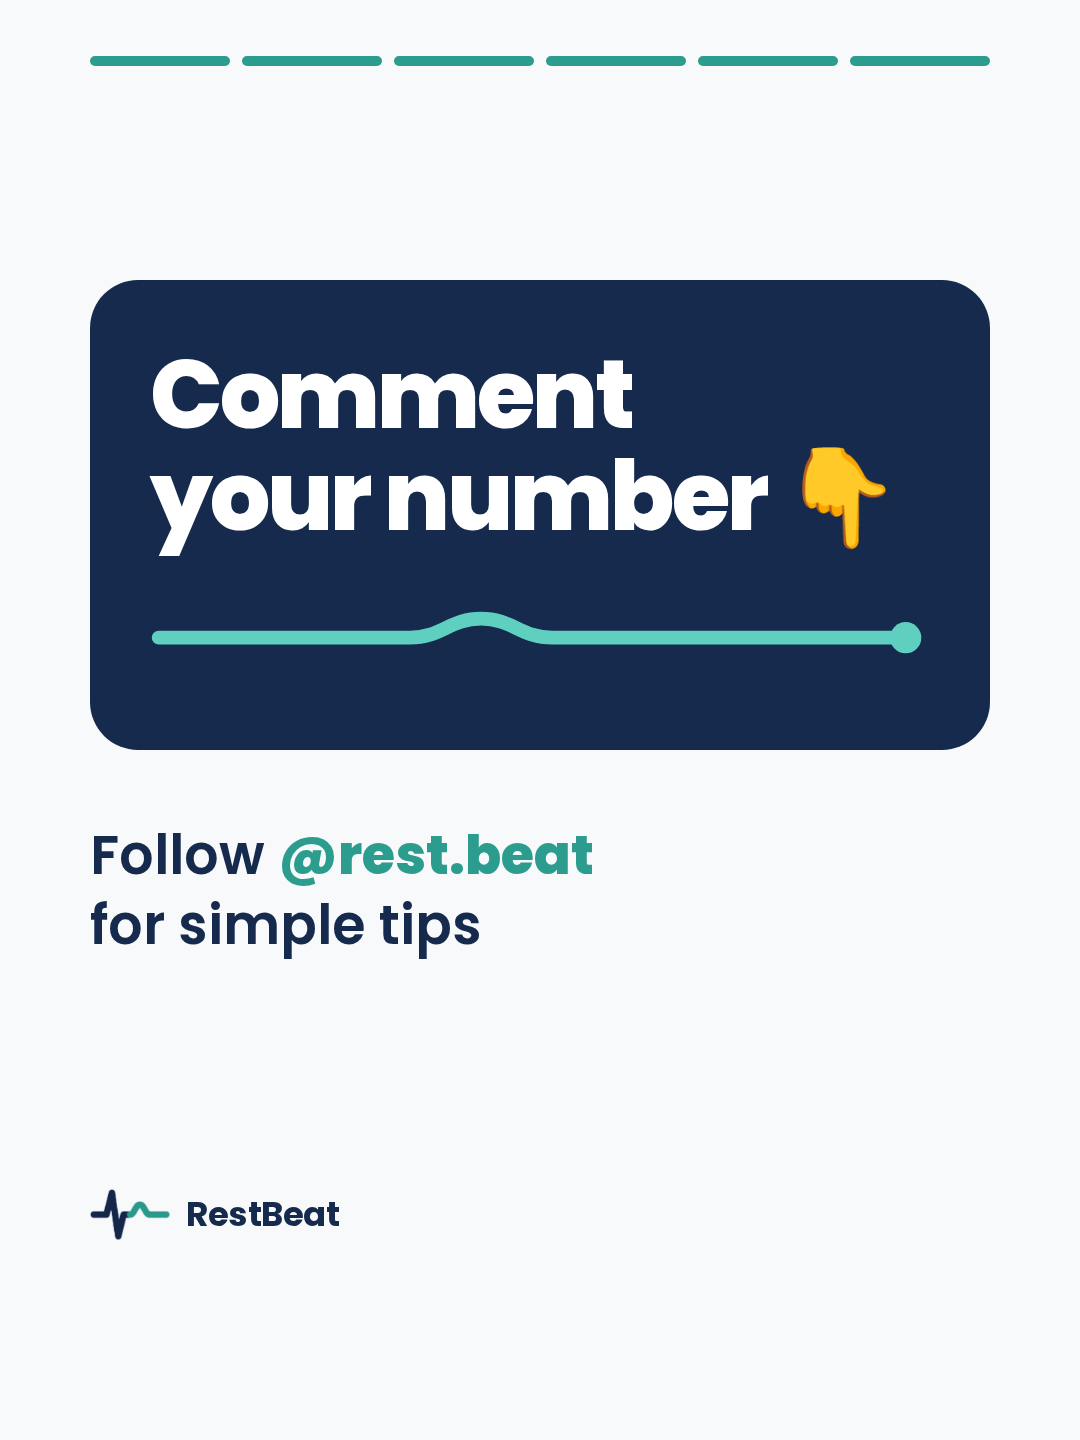
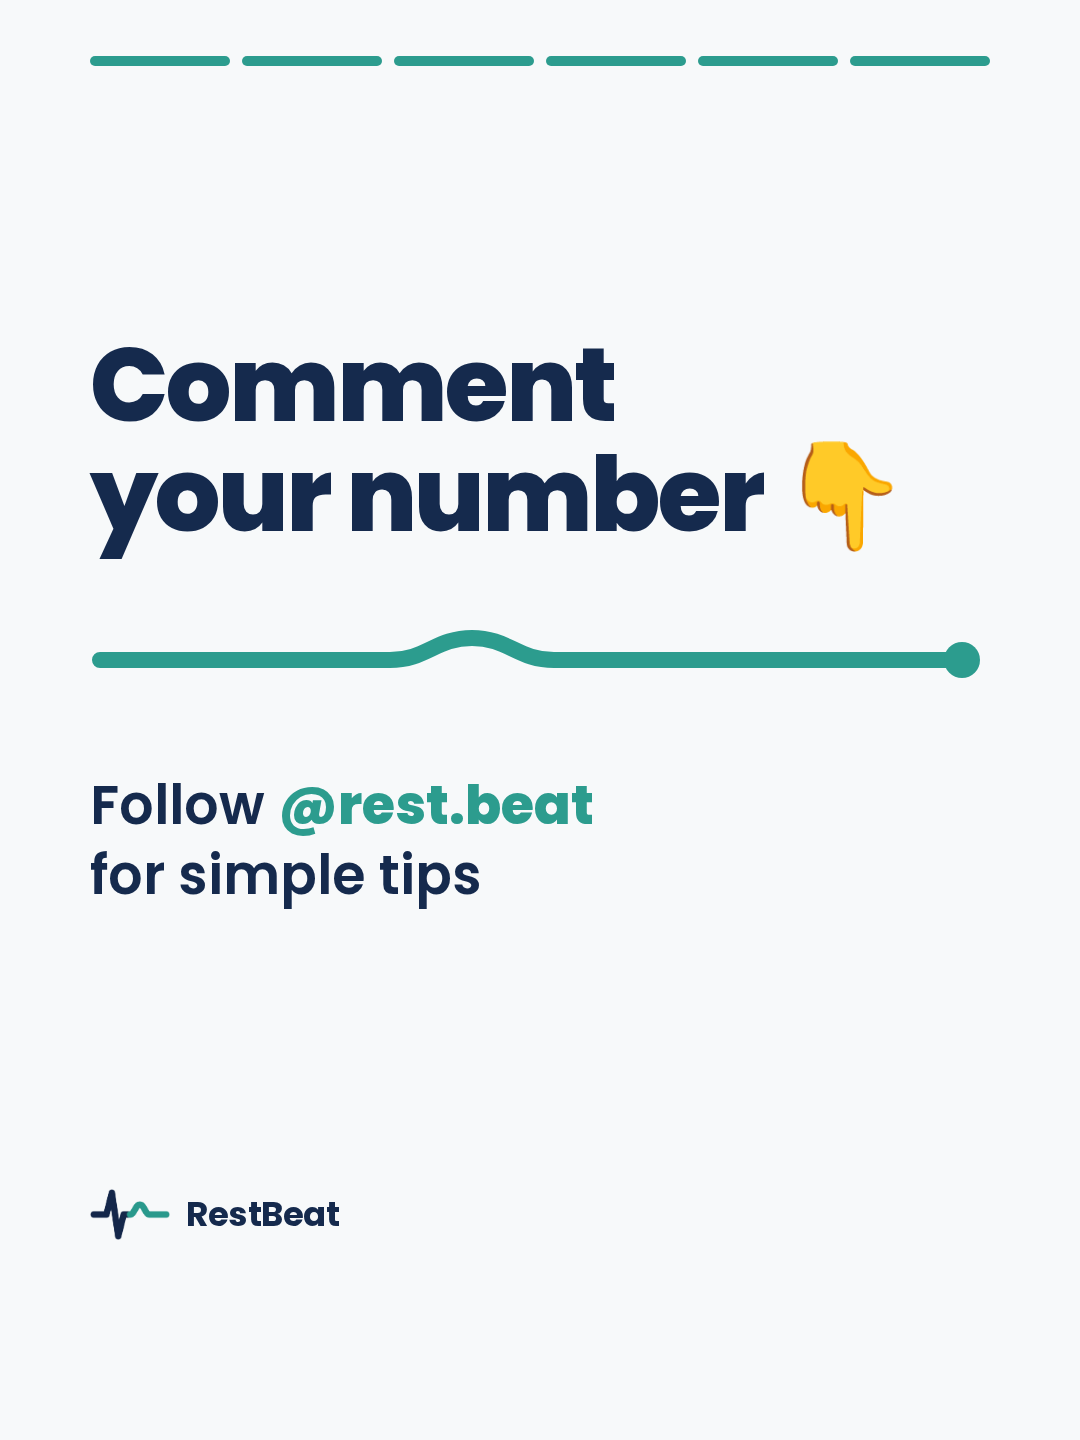
rest.beat slides: calmer hook on the shared light background, no CTA card
Claude-Session: https://claude.ai/code/session_01DZSvGVKJCpUoP7km6ZMfvX

Changed region(s): [[0.0611, 0.1875, 0.9167, 0.6562]]

diff --git a/rest-beat-slides/src/slides.html b/rest-beat-slides/src/slides.html
@@ -16,7 +16,6 @@
     --navy-soft:#5B6B86;   /* secondary text */
     --navy-mid:#3F5373;    /* scale: 70 to 80 */
     --teal-mid:#6BB9AF;    /* scale: 60 to 70 */
-    --teal-light:#5FD0C0;  /* teal on navy */
     --line:#E3E8EE;
   }
   *{box-sizing:border-box;margin:0;padding:0}
@@ -29,14 +28,11 @@
          margin:0 auto 40px}
   .safe{position:absolute;left:90px;right:90px;top:130px;bottom:330px;
         display:flex;flex-direction:column}
-  .dark{background:var(--navy);color:#fff}
-
+  
   /* progress segments: tells people there is more to swipe */
   .progress{position:absolute;top:56px;left:90px;right:90px;display:flex;gap:12px}
   .progress i{flex:1;height:10px;border-radius:5px;background:var(--line)}
   .progress i.on{background:var(--teal)}
-  .dark .progress i{background:rgba(255,255,255,.18)}
-  .dark .progress i.on{background:var(--teal-light)}
 
   .brand{position:absolute;left:90px;bottom:200px;display:flex;align-items:center;gap:16px}
   .brand img{width:80px;mix-blend-mode:multiply}
@@ -52,16 +48,8 @@
   .wave path,.line path{fill:none;stroke-linecap:round;stroke-linejoin:round}
 
   /* 1: hook */
-  .chip{align-self:flex-start;display:inline-flex;align-items:center;gap:14px;
-        border:3px solid var(--teal-light);color:var(--teal-light);border-radius:999px;
-        padding:12px 30px;font-weight:700;font-size:32px;letter-spacing:1px;text-transform:uppercase}
-  .chip i{width:14px;height:14px;border-radius:50%;background:var(--teal-light)}
-  .hook h1{font-size:122px;line-height:1.02;letter-spacing:-4px;margin-top:40px}
-  .hook h1 .t{color:var(--teal-light)}
-  .cta{display:flex;align-items:center;justify-content:space-between;margin-top:auto}
-  .pill{display:inline-flex;align-items:center;background:var(--teal);color:#fff;border-radius:999px;
-        padding:26px 46px;font-weight:700;font-size:44px}
-  .swipe{width:104px;height:104px;border-radius:50%;background:#fff;display:flex;align-items:center;justify-content:center}
+  .hook h1{font-size:122px;line-height:1.02;letter-spacing:-4px}
+  .hook .sub{font-weight:600;font-size:48px;color:var(--navy-soft);margin-top:auto}
 
   /* 2: steps on a rounded line */
   .steps{position:relative;display:flex;flex-direction:column;gap:76px;margin-top:70px}
@@ -78,33 +66,19 @@
   .row.hi .txt{color:var(--navy);font-weight:700}
   .bar{height:38px;border-radius:19px;margin-top:18px}
 
-  /* 6: CTA card */
-  .card{background:var(--navy);color:#fff;border-radius:48px;padding:64px 60px 70px}
-  .card h1{font-size:96px}
 </style>
 </head>
 <body>
 
-<!-- 1: hook (dark, high contrast so it stops the scroll) -->
-<section class="slide dark hook" id="s1">
+<!-- 1: hook -->
+<section class="slide hook" id="s1">
   <div class="progress"><i class="on"></i><i></i><i></i><i></i><i></i><i></i></div>
   <div class="safe">
-    <div class="chip"><i></i>Quick test</div>
     <h1>What's your<br><span class="t">resting<br>heart rate?</span></h1>
-    <!-- Logo redrawn in white + teal so it reads on navy; same shape as logo.png -->
-    <svg class="line" viewBox="-8 -2 166 104" style="width:500px;margin:20px 0 0 -12px">
-      <path d="M0 50 H26 L37 6 L50 94 L61 50 H74" stroke="#FFFFFF" stroke-width="13"/>
-      <path d="M74 50 C83 50 85 30 94 30 C103 30 105 50 114 50 H148" stroke="#5FD0C0" stroke-width="13"/>
-    </svg>
-    <div class="cta">
-      <div class="pill">Check it in 15 seconds</div>
-      <div class="swipe"><svg viewBox="0 0 40 40" width="46"><path d="M8 20 H31 M22 11 L31 20 L22 29" fill="none" stroke="#152A4D" stroke-width="5" stroke-linecap="round" stroke-linejoin="round"/></svg></div>
-    </div>
+    <img src="logo-trim.png" alt="" style="width:560px;margin:56px 0 0 -14px;mix-blend-mode:multiply">
+    <p class="sub">Check it in 15 seconds</p>
   </div>
-  <div class="brand">
-    <svg class="line" viewBox="-8 -2 166 104"><path d="M0 50 H26 L37 6 L50 94 L61 50 H74" stroke="#FFFFFF" stroke-width="13"/><path d="M74 50 C83 50 85 30 94 30 C103 30 105 50 114 50 H148" stroke="#5FD0C0" stroke-width="13"/></svg>
-    <span>RestBeat</span>
-  </div>
+  <div class="brand"><img src="logo-trim.png" alt=""><span>RestBeat</span></div>
 </section>
 
 <!-- 2: how to measure -->
@@ -181,13 +155,11 @@
 <section class="slide" id="s6">
   <div class="progress"><i class="on"></i><i class="on"></i><i class="on"></i><i class="on"></i><i class="on"></i><i class="on"></i></div>
   <div class="safe" style="justify-content:center">
-    <div class="card">
-      <h1>Comment<br><span style="white-space:nowrap">your number 👇</span></h1>
-      <svg class="line" viewBox="0 0 900 80" style="width:100%;margin-top:56px">
-        <path stroke="#5FD0C0" stroke-width="16" d="M10 40 H300 C336 40 346 18 382 18 C418 18 428 40 464 40 H860"/>
-        <circle cx="872" cy="40" r="18" fill="#5FD0C0"/>
-      </svg>
-    </div>
+    <h1 style="font-size:104px">Comment<br><span style="white-space:nowrap">your number 👇</span></h1>
+    <svg class="line" viewBox="0 0 900 80" style="width:100%;margin-top:70px">
+      <path stroke="#2C9C8E" stroke-width="16" d="M10 40 H300 C336 40 346 18 382 18 C418 18 428 40 464 40 H860"/>
+      <circle cx="872" cy="40" r="18" fill="#2C9C8E"/>
+    </svg>
     <p style="font-weight:600;font-size:54px;line-height:1.3;margin-top:70px">Follow <span class="t" style="font-weight:800">@rest.beat</span><br>for simple tips</p>
   </div>
   <div class="brand"><img src="logo-trim.png" alt=""><span>RestBeat</span></div>
